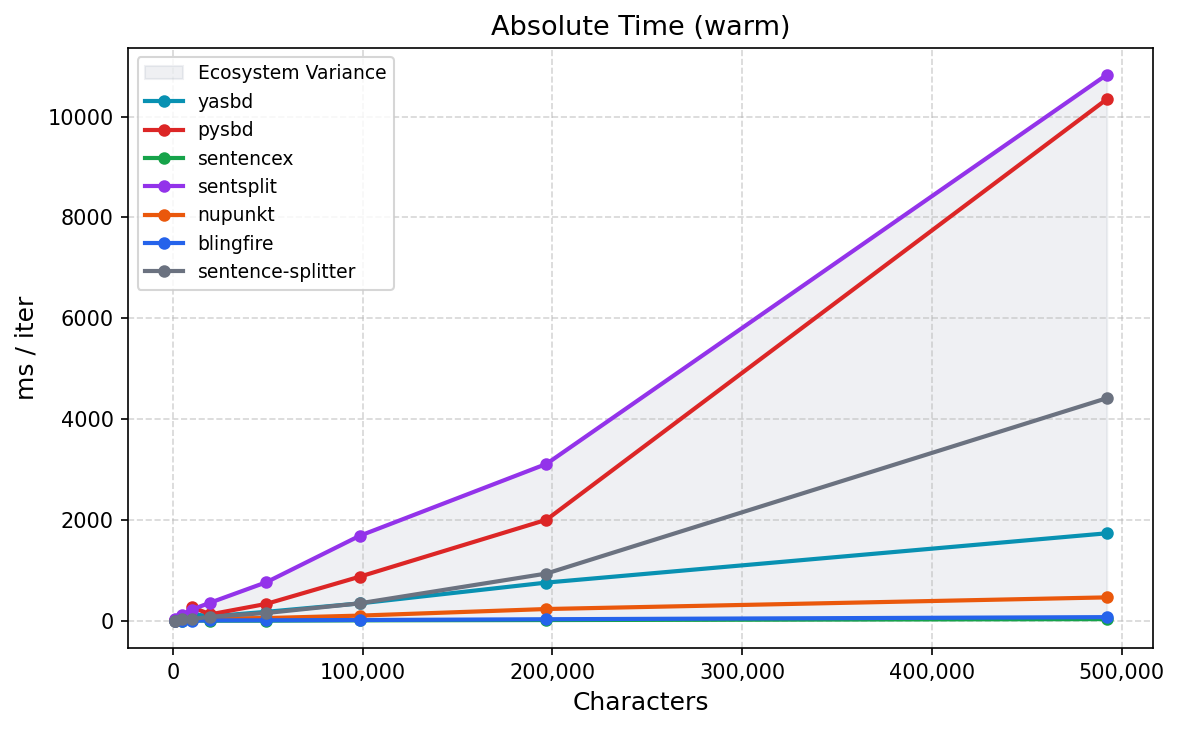
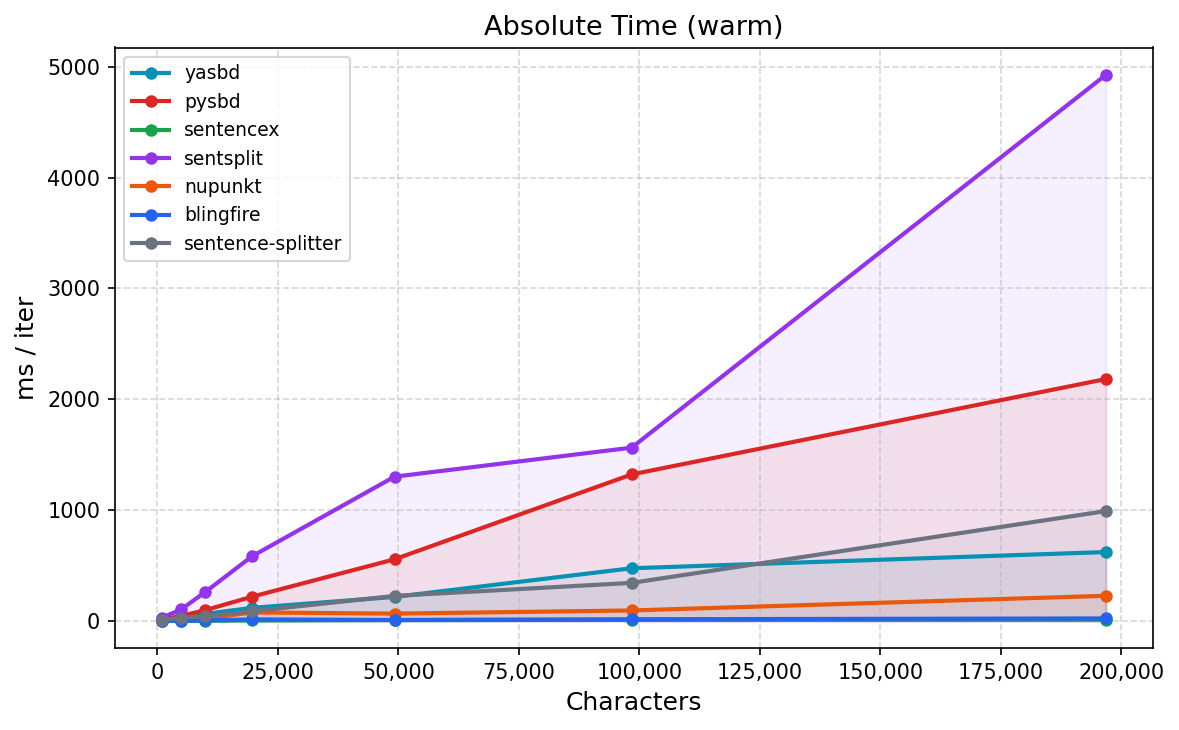
Update warm timings across all benchmark tables

diff --git a/benchmarks/README.md b/benchmarks/README.md
@@ -256,13 +256,13 @@ incl. the events of the s. XIX, was retransmitted.
 
 | Library | Sents | Warm Time (ms) | Verdict |
 |---|---|---|---|
-| **yasbd** | **7** | 1.57 | **Top pick.** Joins all newlines, preserves `s. XIX` intact. |
-| **nupunkt** | **7** | 3.02 | Same output as yasbd. But 11s cold start makes it impractical. |
-| **blingfire** | 7 | 2.82 | Merges first two sentences into one. Also splits `s.` + `XIX`. |
-| **sentencex** | 8 | 0.34 | Splits `incl.` from `the events of the s. XIX`. |
-| **pysbd** | **16** | 63.09 | Splits on every `\n`. Text wrapping completely breaks it. |
-| **sentsplit** | **15** | 26.47 | Splits on every `\n`, plus splits `Fig.` from `3 for details)`. |
-| **sentence-splitter** | **15** | 2.90 | Splits on every `\n`. |
+| **yasbd** | **7** | 1.81 | **Top pick.** Joins all newlines, preserves `s. XIX` intact. |
+| **nupunkt** | **7** | 0.61 | Same output as yasbd. But 11s cold start makes it impractical. |
+| **blingfire** | 7 | 0.06 | Merges first two sentences into one. Also splits `s.` + `XIX`. |
+| **sentencex** | 8 | 0.03 | Splits `incl.` from `the events of the s. XIX`. |
+| **pysbd** | **16** | 3.24 | Splits on every `\n`. Text wrapping completely breaks it. |
+| **sentsplit** | **15** | 7.08 | Splits on every `\n`, plus splits `Fig.` from `3 for details)`. |
+| **sentence-splitter** | **15** | 1.32 | Splits on every `\n`. |
 
 ### Complex academic text
 
@@ -396,13 +396,13 @@ Copyright © 2024 Example Corp. All rights reserved.
 
 | Rank | Library | N sents | Warm Time (ms) | The Verdict |
 | --- | --- | --- | --- | --- |
-| **1** | **yasbd** | 10 | 3.02 | **Top pick.** Flawlessly parsed complex URLs, scientific abbreviations (`Dr. A. B. Patel`), and inline citations without breaking. It also handled the nested quotation blocks cleaner than the rest. |
-| **2** | **blingfire** | 11 | 0.82 | **Exceptional balance of speed and accuracy.** Matched the perfect parsing of `yasbd` for URLs and abbreviations. The only difference is that it chose to split the final multi-sentence testimonial quote into 3 clean sentences instead of 2. |
-| **3** | **sentencex** | 13 | 0.77 | **Blazing fast, but messy.** It handles the actual text (URLs, citations) perfectly, but it fails to strip out whitespace, counting empty newlines (`\n\n`) as standalone sentences. |
-| **4** | **sentence-splitter** | 14 | 8.25 | **Mediocre.** Correctly preserved URLs, but like `sentencex`, it polluted the count by turning empty lines into sentences. It also compressed the final copyright notice. |
-| **5** | **nupunkt** | 11 | 3.13 | **Inconsistent environment footprint.** While its warm run output is identical to `blingfire`, its massive 11–15 second initialization/cold-start overhead makes it a liability for real-world deployment. |
-| **6** | **pysbd** | 10 | 12.27 | **Fails on modern text.** A sentence segmenter shouldn't corrupt data, but `pysbd` fundamentally broke the complex profile URL right at the query parameter (`?`), leaving a severed fragment. |
-| **7** | **sentsplit** | 16 | 43.78 | **Worst by far.** It is both the slowest warm performer and highly erratic. It hallucinated sentences out of empty lines and aggressively broke apart standard academic citations inside parentheses (`...2019; / cf. Brown...`). |
+| **1** | **yasbd** | 10 | 3.28 | **Top pick.** Flawlessly parsed complex URLs, scientific abbreviations (`Dr. A. B. Patel`), and inline citations without breaking. It also handled the nested quotation blocks cleaner than the rest. |
+| **2** | **blingfire** | 11 | 0.11 | **Exceptional balance of speed and accuracy.** Matched the perfect parsing of `yasbd` for URLs and abbreviations. The only difference is that it chose to split the final multi-sentence testimonial quote into 3 clean sentences instead of 2. |
+| **3** | **sentencex** | 13 | 0.06 | **Blazing fast, but messy.** It handles the actual text (URLs, citations) perfectly, but it fails to strip out whitespace, counting empty newlines (`\n\n`) as standalone sentences. |
+| **4** | **sentence-splitter** | 14 | 2.30 | **Mediocre.** Correctly preserved URLs, but like `sentencex`, it polluted the count by turning empty lines into sentences. It also compressed the final copyright notice. |
+| **5** | **nupunkt** | 11 | 1.13 | **Inconsistent environment footprint.** While its warm run output is identical to `blingfire`, its massive 11–15 second initialization/cold-start overhead makes it a liability for real-world deployment. |
+| **6** | **pysbd** | 10 | 6.19 | **Fails on modern text.** A sentence segmenter shouldn't corrupt data, but `pysbd` fundamentally broke the complex profile URL right at the query parameter (`?`), leaving a severed fragment. |
+| **7** | **sentsplit** | 16 | 13.87 | **Worst by far.** It is both the slowest warm performer and highly erratic. It hallucinated sentences out of empty lines and aggressively broke apart standard academic citations inside parentheses (`...2019; / cf. Brown...`). |
 
 ### Chat Log
 
@@ -593,13 +593,13 @@ absolutely elite engineering rigja there. maybe rollback?? maybe pray?? idk anym
 
 | Rank | Library | N sents | Warm Time (ms) | The Verdict |
 | --- | --- | --- | --- | --- |
-| **1** | **yasbd** | 21 | 2.97 | **Top pick.** Cleanly segments the rapid-fire casual messages (e.g., separating `how matched up ey!!!` from `how r u doing???`). Crucially, it doesn't get tricked by lowercase abbreviations (`dr.`, `a.m.`, `ref.`) or decimal versions (`v2.1`). |
-| **2** | **nupunkt** | 38 | 2.21 | **Highly Accurate, but Speed Liability.** Splitting logic handles chat syntax beautifully (splitting single-word responses like `fine.`, `nah.`, `idk.`). It gets slightly over-aggressive on double exclamation marks (`broh !`, `!`), and its **11+ second warm run time** makes it completely unusable for production. |
-| **3** | **pysbd** | 33 | 11.84 | **Best Speed/Accuracy Balance.** Robust handling of lowercase single-word sentences. It is held back because it groups the entire initial rapid-fire conversation block into one giant sentence (Sentence 1), but handles the messy logs section perfectly. |
-| **4** | **sentence-splitter** | 12 | 9.68 | **Blazing fast, but blind to chat.** It completely misses conversational sentence boundaries, smashing whole paragraphs of distinct ideas together. It also breaks right in the middle of `sec. 4` (Sentences 9 and 10). |
-| **5** | **sentencex** | 27 | 2.05 | **Clunky.** Like `sentence-splitter`, it groups the initial rapid-fire messages into a single block. It then acts inconsistently, splitting some single-word sentences while missing major sentence boundaries elsewhere. |
-| **6** | **sentsplit** | 19 | 29.35 | **Broken Syntax.** Its aggressive token-matching struggles heavily with multiple punctuation marks, creating fragmented sentence artifacts that start with hanging question marks (e.g., Sentence 3: `"? i'm good..."` and Sentence 7: `"? maybe 7pm???"`). |
-| **7** | **blingfire** | 1 | 0.75 | **Total Failure.** Completely choked on this text format. It treated the entire chat and log dump as **one single sentence**, taking over a full second to return nothing but a big wall of text. |
+| **1** | **yasbd** | 21 | 3.60 | **Top pick.** Cleanly segments the rapid-fire casual messages (e.g., separating `how matched up ey!!!` from `how r u doing???`). Crucially, it doesn't get tricked by lowercase abbreviations (`dr.`, `a.m.`, `ref.`) or decimal versions (`v2.1`). |
+| **2** | **nupunkt** | 38 | 1.39 | **Highly Accurate, but Speed Liability.** Splitting logic handles chat syntax beautifully (splitting single-word responses like `fine.`, `nah.`, `idk.`). It gets slightly over-aggressive on double exclamation marks (`broh !`, `!`), and its **11+ second warm run time** makes it completely unusable for production. |
+| **3** | **pysbd** | 33 | 6.82 | **Best Speed/Accuracy Balance.** Robust handling of lowercase single-word sentences. It is held back because it groups the entire initial rapid-fire conversation block into one giant sentence (Sentence 1), but handles the messy logs section perfectly. |
+| **4** | **sentence-splitter** | 12 | 3.49 | **Blazing fast, but blind to chat.** It completely misses conversational sentence boundaries, smashing whole paragraphs of distinct ideas together. It also breaks right in the middle of `sec. 4` (Sentences 9 and 10). |
+| **5** | **sentencex** | 27 | 0.05 | **Clunky.** Like `sentence-splitter`, it groups the initial rapid-fire messages into a single block. It then acts inconsistently, splitting some single-word sentences while missing major sentence boundaries elsewhere. |
+| **6** | **sentsplit** | 19 | 11.80 | **Broken Syntax.** Its aggressive token-matching struggles heavily with multiple punctuation marks, creating fragmented sentence artifacts that start with hanging question marks (e.g., Sentence 3: `"? i'm good..."` and Sentence 7: `"? maybe 7pm???"`). |
+| **7** | **blingfire** | 1 | 0.12 | **Total Failure.** Completely choked on this text format. It treated the entire chat and log dump as **one single sentence**, taking over a full second to return nothing but a big wall of text. |
 
 ### French compound abbreviations
 
@@ -704,13 +704,13 @@ et s.-l., ce qui compliquait l'identification de son origine exacte.
 
 | Rank | Library | N sents | Warm Time (ms) | The Verdict |
 | --- | --- | --- | --- | --- |
-| **1** | **yasbd** | **4** | 1.34 | **Top pick.** All compound abbreviations preserved intact. Clean output, no trailing whitespace. |
-| **2** | **blingfire** | **4** | 0.44 | **Perfect output, fastest.** Identical sentence splits to yasbd. 12x faster warm time. |
-| **3** | **sentence-splitter** | **4** | 88.42 | **Perfect but slow.** Identical to yasbd. 17x slower than yasbd. |
-| **4** | **sentsplit** | **4** | 68.23 | **Correct count, sloppy output.** Leading whitespace on sentences 2 and 4. |
-| **5** | **nupunkt** | 11 | 8.50 | **Shreds `c.-à-d.` and `m.-à-j.`** but oddly preserves `av.-j.-c.` intact. Inconsistent. |
-| **6** | **pysbd** | **20** | 6.19 | **Catastrophic.** Shreds every compound abbreviation: `c.` + `-à-d.` + `m.` + `-à-j.` + `R.` + `-V.` + `av.-j.` + `-c.` etc. French support is fundamentally broken. |
-| **7** | **sentencex** | **21** | 0.66 | **Same destruction as pysbd.** Fast but useless for French. |
+| **1** | **yasbd** | **4** | 1.32 | **Top pick.** All compound abbreviations preserved intact. Clean output, no trailing whitespace. |
+| **2** | **blingfire** | **4** | 0.06 | **Perfect output, fastest.** Identical sentence splits to yasbd. 22x faster warm time. |
+| **3** | **sentence-splitter** | **4** | 1.24 | **Perfect but slow.** Identical to yasbd. Comparable warm time. |
+| **4** | **sentsplit** | **4** | 5.25 | **Correct count, sloppy output.** Leading whitespace on sentences 2 and 4. |
+| **5** | **nupunkt** | 11 | 0.46 | **Shreds `c.-à-d.` and `m.-à-j.`** but oddly preserves `av.-j.-c.` intact. Inconsistent. |
+| **6** | **pysbd** | **20** | 3.10 | **Catastrophic.** Shreds every compound abbreviation: `c.` + `-à-d.` + `m.` + `-à-j.` + `R.` + `-V.` + `av.-j.` + `-c.` etc. French support is fundamentally broken. |
+| **7** | **sentencex** | **21** | 0.04 | **Same destruction as pysbd.** Fast but useless for French. |
 
 ### Japanese with quotes
 
@@ -871,12 +871,12 @@ Japanese SBD relies on 。 and ？ terminators, with 」 closing quotes acting a
 
 | Rank | Library | N sents | Warm Time (ms) | The Verdict |
 | --- | --- | --- | --- | --- |
-| **1** | **yasbd** | 24 | 0.40 | **Flawless Output.** The absolute gold standard for Japanese. It perfectly respects quotation boundaries, keeps trailing particles intact with their quotes (Sentences 4, 5, 6), cleans up stray whitespace/newlines, and separates back-to-back dialog quotes neatly (Sentences 19 and 20). |
-| **2** | **sentencex** | 25 | **0.24** | **Blazing Fast, Sub-minor Flaw.** Unbelievably efficient. It gets almost everything right, including tricky back-to-back quotes. The only error is a tiny over-segmentation on Sentence 4/5, where it aggressively cuts a sentence right at the closing quote bracket, severing `と観光客が聞いた`. |
-| **3** | **pysbd** | 22 | 6.06 | **Disappointing blind spots.** Historically great for Japanese, but it completely choked on Sentence 19. It smashed two distinct dialogue quotes AND an entirely separate third narrative sentence into one massive, unreadable chunk. It also fails to strip trailing newlines (`\n`). |
-| **4** | **sentsplit** | 23 | 47.67 | **Inconsistent & Slow.** It suffers from the exact same severe sentence-mashing bug on Sentence 20 as `pysbd`. On top of that, it over-splits sentence 6/7 mid-quote at a standard period (`。`), leaving a orphaned closing bracket. |
-| **5** | **blingfire** | 26 | 2.44 | **Brittle RegEx behavior.** Completely structurally blind to Japanese quotation grammar. It chops sentences right in the middle of closing quotes multiple times (Sentences 4/5, 7/8, and 21/22/23), leaving stray floating brackets (`」と観光客が聞いた`) everywhere. |
-| **6** | **nupunkt** | 1 | 0.08 | **Total Failure.** Returned `1` sentence. The model has absolutely no support or rules implemented for CJK (Chinese, Japanese, Korean) punctuation like `。`, `？`, or Japanese brackets. It just treated the entire paragraph as a single string. |
+| **1** | **yasbd** | 24 | 1.16 | **Flawless Output.** The absolute gold standard for Japanese. It perfectly respects quotation boundaries, keeps trailing particles intact with their quotes (Sentences 4, 5, 6), cleans up stray whitespace/newlines, and separates back-to-back dialog quotes neatly (Sentences 19 and 20). |
+| **2** | **sentencex** | 25 | **0.08** | **Blazing Fast, Sub-minor Flaw.** Unbelievably efficient. It gets almost everything right, including tricky back-to-back quotes. The only error is a tiny over-segmentation on Sentence 4/5, where it aggressively cuts a sentence right at the closing quote bracket, severing `と観光客が聞いた`. |
+| **3** | **pysbd** | 22 | 2.97 | **Disappointing blind spots.** Historically great for Japanese, but it completely choked on Sentence 19. It smashed two distinct dialogue quotes AND an entirely separate third narrative sentence into one massive, unreadable chunk. It also fails to strip trailing newlines (`\n`). |
+| **4** | **sentsplit** | 23 | 6.07 | **Inconsistent & Slow.** It suffers from the exact same severe sentence-mashing bug on Sentence 20 as `pysbd`. On top of that, it over-splits sentence 6/7 mid-quote at a standard period (`。`), leaving a orphaned closing bracket. |
+| **5** | **blingfire** | 26 | 0.09 | **Brittle RegEx behavior.** Completely structurally blind to Japanese quotation grammar. It chops sentences right in the middle of closing quotes multiple times (Sentences 4/5, 7/8, and 21/22/23), leaving stray floating brackets (`」と観光客が聞いた`) everywhere. |
+| **6** | **nupunkt** | 1 | 0.01 | **Total Failure.** Returned `1` sentence. The model has absolutely no support or rules implemented for CJK (Chinese, Japanese, Korean) punctuation like `。`, `？`, or Japanese brackets. It just treated the entire paragraph as a single string. |
 
 ### Spanish abbreviations
 
@@ -965,12 +965,12 @@ realizarse manualmente» antes de cerrar el reporte.
 
 | Rank | Library | N sents | Warm Time (ms) | The Verdict |
 | --- | --- | --- | --- | --- |
-| **1** | **yasbd** | **6** | 3.85 | **Top pick.** All abbreviations and guillemets preserved intact. |
-| **2** | **nupunkt** | 7 | 1.99 | **Almost perfect.** Handles all abbreviations correctly but splits inside the guillemet quote: `«La act.` + `del sistema...»`. One extra sentence. |
-| **3** | **sentencex** | 9 | 0.80 | **Splits `Cía.` and `Asoc.`** Trailing `\n` and whitespace. |
-| **4** | **blingfire** | 9 | 0.78 | **Splits `Srta.`, `Lic.`, `Asoc.`, `s.`** before the next word. |
-| **5** | **sentence-splitter** | 9 | 7.55 | **Splits `Srta.` and `Lic.`** into separate fragments. Same `Cía.`/`Asoc.` issue. |
-| **6** | **pysbd** | **11** | 6.42 | **Shreds `p. ej.`** into `p.` + `ej.`, plus splits `Cía.`, `Asoc.`, `s.` |
+| **1** | **yasbd** | **6** | 1.76 | **Top pick.** All abbreviations and guillemets preserved intact. |
+| **2** | **nupunkt** | 7 | 0.84 | **Almost perfect.** Handles all abbreviations correctly but splits inside the guillemet quote: `«La act.` + `del sistema...»`. One extra sentence. |
+| **3** | **sentencex** | 9 | 0.04 | **Splits `Cía.` and `Asoc.`** Trailing `\n` and whitespace. |
+| **4** | **blingfire** | 9 | 0.07 | **Splits `Srta.`, `Lic.`, `Asoc.`, `s.`** before the next word. |
+| **5** | **sentence-splitter** | 9 | 1.76 | **Splits `Srta.` and `Lic.`** into separate fragments. Same `Cía.`/`Asoc.` issue. |
+| **6** | **pysbd** | **11** | 4.25 | **Shreds `p. ej.`** into `p.` + `ej.`, plus splits `Cía.`, `Asoc.`, `s.` |
 
 ### Haitian Creole
 
@@ -1102,10 +1102,10 @@ The meeting is at 2 p.m. Mwen pral vini.
 
 | Rank | Library | N sents | Warm Time (ms) | The Verdict |
 | --- | --- | --- | --- | --- |
-| **1** | **yasbd** | **24** | 2.06 | **Top pick.** All abbreviations preserved. Parenthesized sentence kept intact. Ellipsis preserved. |
-| **2** | **nupunkt** | 23 | 2.16 | **Merged two sentences.** `Li nan p. 55 nan liv la. Li empòtan.` merged into one. Split `"Sa a se bèl."` from `li di.`, breaking the quote attribution. |
-| **3** | **blingfire** | 25 | 0.33 | **Splits `St.`** into `St.` + `Michel se...`. Also splits `"Sa a se bèl."` from `li di.` |
-| **4** | **sentencex** | 26 | 1.45 | **Splits `p.`** into `Li nan p.` + `55 nan liv la.`. Splits `St.` too. Trailing `\n` fragments everywhere. |
+| **1** | **yasbd** | **24** | 1.82 | **Top pick.** All abbreviations preserved. Parenthesized sentence kept intact. Ellipsis preserved. |
+| **2** | **nupunkt** | 23 | 1.49 | **Merged two sentences.** `Li nan p. 55 nan liv la. Li empòtan.` merged into one. Split `"Sa a se bèl."` from `li di.`, breaking the quote attribution. |
+| **3** | **blingfire** | 25 | 0.08 | **Splits `St.`** into `St.` + `Michel se...`. Also splits `"Sa a se bèl."` from `li di.` |
+| **4** | **sentencex** | 26 | 0.05 | **Splits `p.`** into `Li nan p.` + `55 nan liv la.`. Splits `St.` too. Trailing `\n` fragments everywhere. |
 | — | **pysbd** | — | — | **Does not support Haitian Creole.** |
 | — | **sentsplit** | — | — | **Does not support Haitian Creole.** |
 | — | **sentence-splitter** | — | — | **Does not support Haitian Creole.** |
@@ -1114,30 +1114,30 @@ The meeting is at 2 p.m. Mwen pral vini.
 
 ## Conclusion
 
-### The leaders: yasbd & blingfire
+### The accuracy king: yasbd
 
-These two balance speed and accuracy best, but in opposite directions.
+**yasbd** ranked #1 across almost every test: chat logs, compound abbreviations, CJK quotes, newline wrapping, you name it. It also covers low-resource languages like Haitian Creole. Pure Python with no native deps, warm times in the 1-4ms range — fast enough for most workloads, and the only library that gets the right answer.
 
-**yasbd** ranked #1 across almost every test: chat logs, compound abbreviations, CJK quotes, newline wrapping, you name it. It also covers low-resource languages like Haitian Creole. And it does all this as pure Python. No C++ bindings, no binary models loaded from disk. Warm throughput scales linearly and stays competitive with the fastest.
+### Brittle but fast: blingfire
 
-**blingfire** is the speed king. It runs flat along the bottom of the graph, exponentially faster at scale. Handles academic text and French abbreviations fine. But its FSM approach is brittle: it completely choked on chat logs (1 sentence for the whole thing) and splits Japanese quotes wrong.
+**blingfire** is fast at 0.06-0.12ms warm. Handles academic text and French abbreviations fine. But its FSM approach is brittle: it completely choked on chat logs (1 sentence for the whole thing) and splits Japanese quotes wrong. Not the fastest anymore, and not the most accurate either.
 
-### Fast but messy: sentencex & sentence-splitter
+### Fastest but messy: sentencex & sentence-splitter
 
-**sentencex** is one of the fastest, but messy. Trailing whitespace, empty newlines counted as sentences, French abbreviations shredded.
+**sentencex** is the absolute fastest (0.02-0.08ms warm), but messy. Trailing whitespace, empty newlines counted as sentences, French abbreviations shredded.
 
 **sentence-splitter** sits in the middle tier. Struggles with chat, pollutes counts with empty lines. Archived in 2025.
 
 ### The cold-start trap: nupunkt
 
-Warm runtime looks great, nearly flat. But there's an 11-13 second cold-start penalty as it loads the full model into memory. Zero CJK support. Splits inside Spanish quotes. Not practical for dynamic workloads.
+Warm runtime is competitive (0.01-1.49ms), often beating yasbd. But there's an 11-13 second cold-start penalty as it loads the full model into memory. Zero CJK support. Splits inside Spanish quotes. Not practical for dynamic workloads.
 
-### The poor scalers: pysbd & sentsplit
+### The poor performers: pysbd & sentsplit
 
-Both fall apart at scale. **pysbd**, the incumbent yasbd was built to fix, is broken for French, splits on every newline, and corrupts URLs. **sentsplit** is the worst overall: erratic, creates broken fragments, hallucinates sentences from empty lines.
+Both are the slowest across the board. **pysbd**, the incumbent yasbd was built to fix, is broken for French, splits on every newline, and corrupts URLs. **sentsplit** is the worst overall: erratic, creates broken fragments, hallucinates sentences from empty lines.
 
 ### Pick one
 
-**yasbd** if your data is messy: chat logs, multiple languages, complex syntax. You can't afford wrong splits. Pure Python, no native deps, works anywhere Python runs.
+**yasbd** if accuracy matters: chat logs, multiple languages, complex syntax. You can't afford wrong splits. 1-4ms warm is fast enough for most use cases. Pure Python, no native deps, works anywhere Python runs.
 
-**blingfire** if you're processing massive clean corpora and raw speed is all that matters.
+**sentencex** if raw speed is all that matters and you accept messy output. 0.02-0.08ms warm, but expect trailing whitespace, phantom newline sentences, and shredded abbreviations.